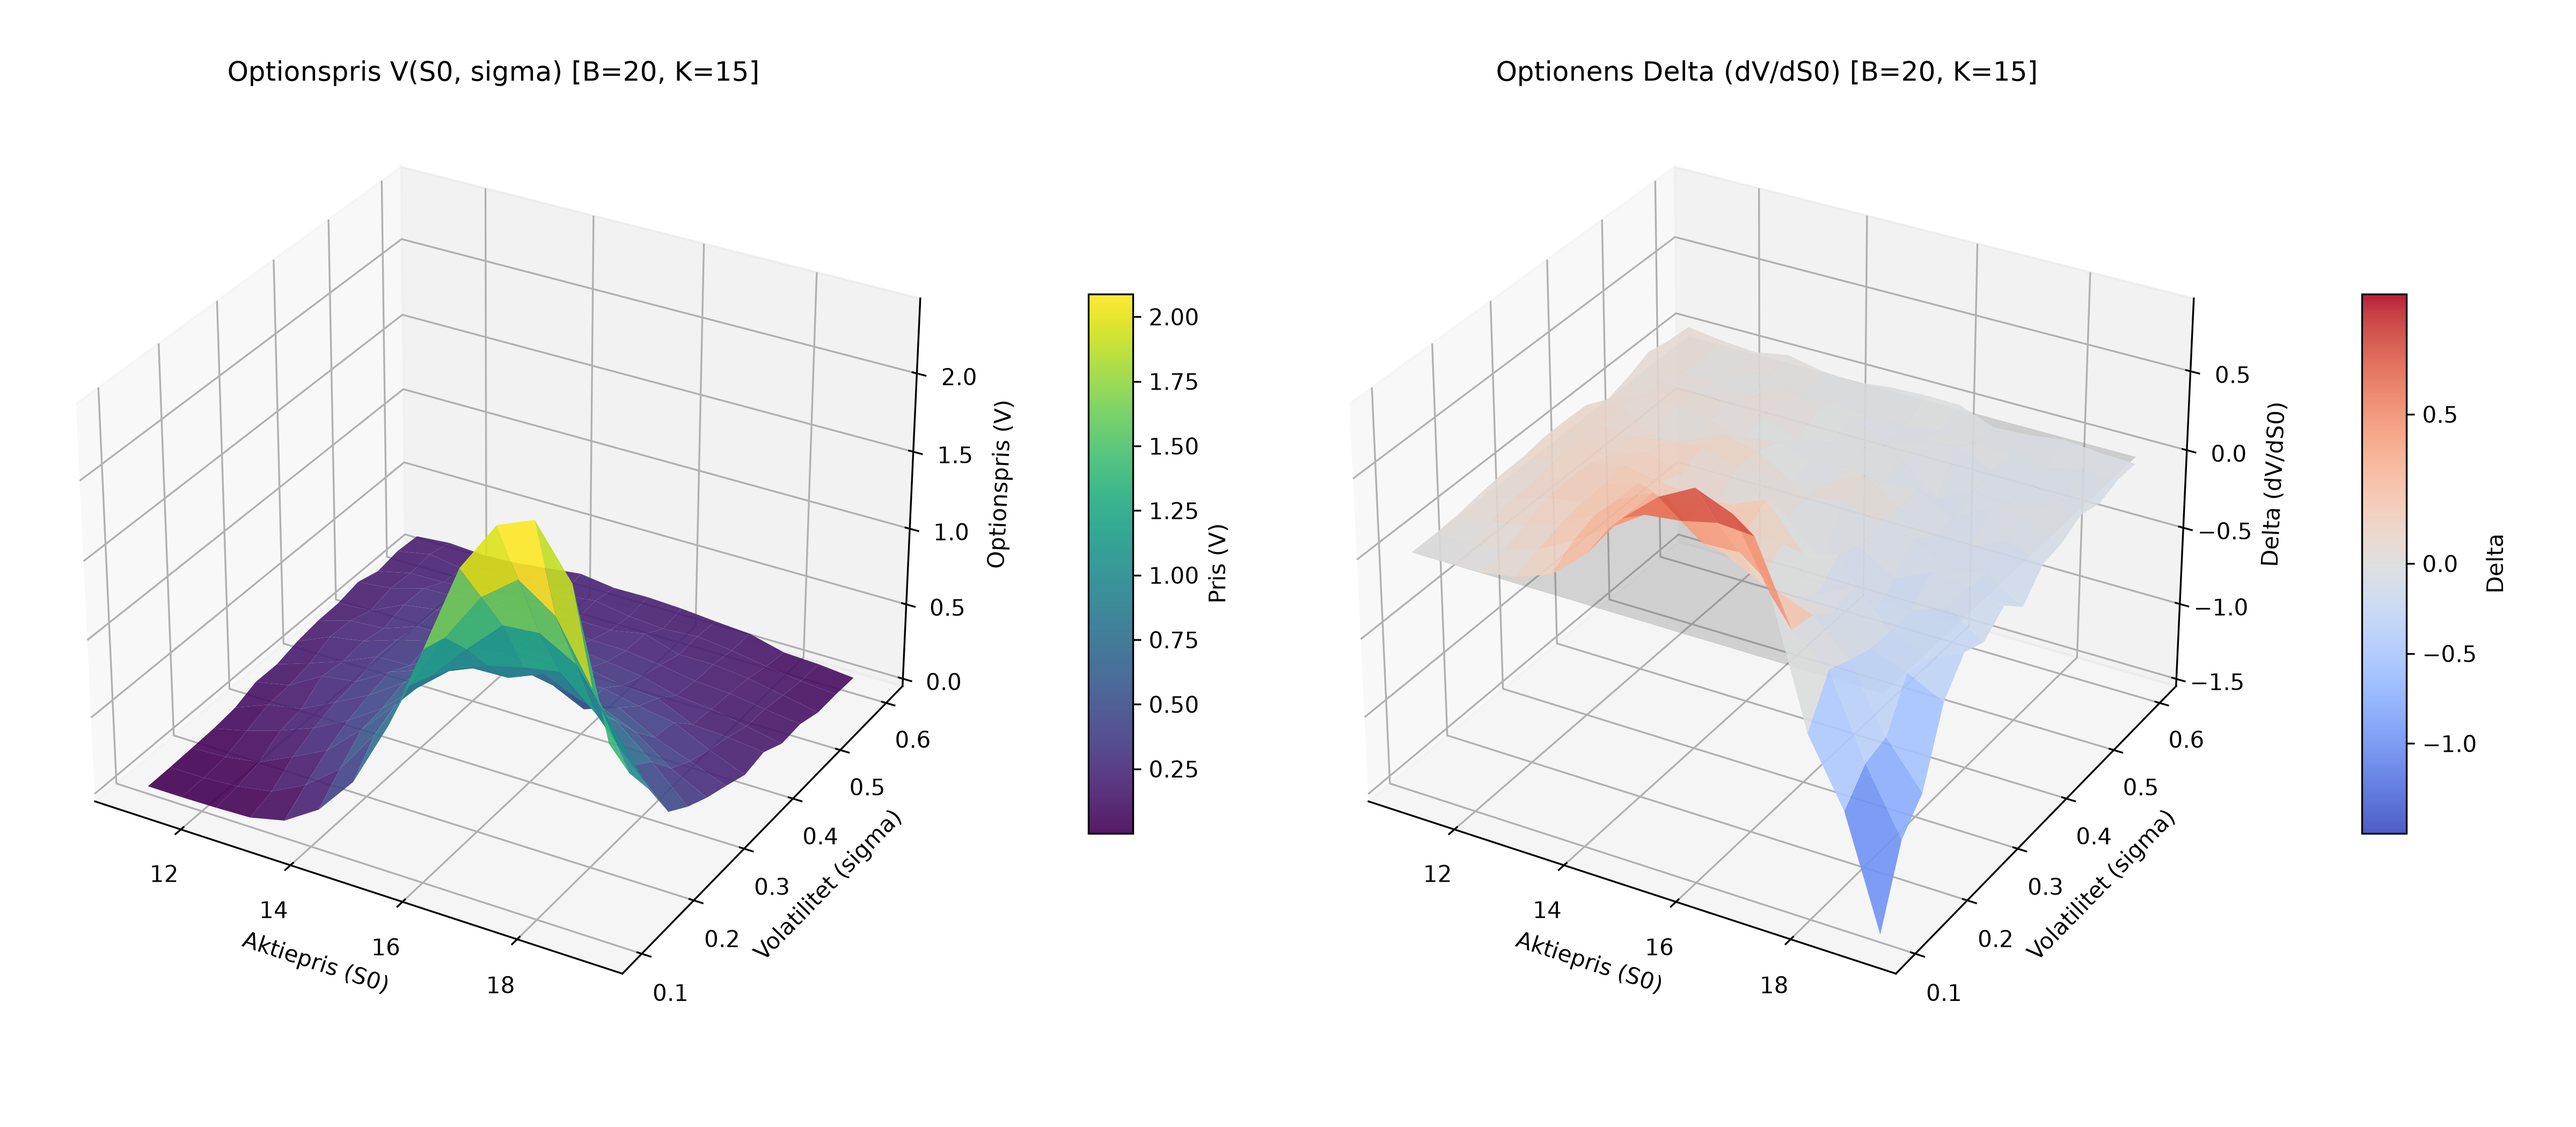
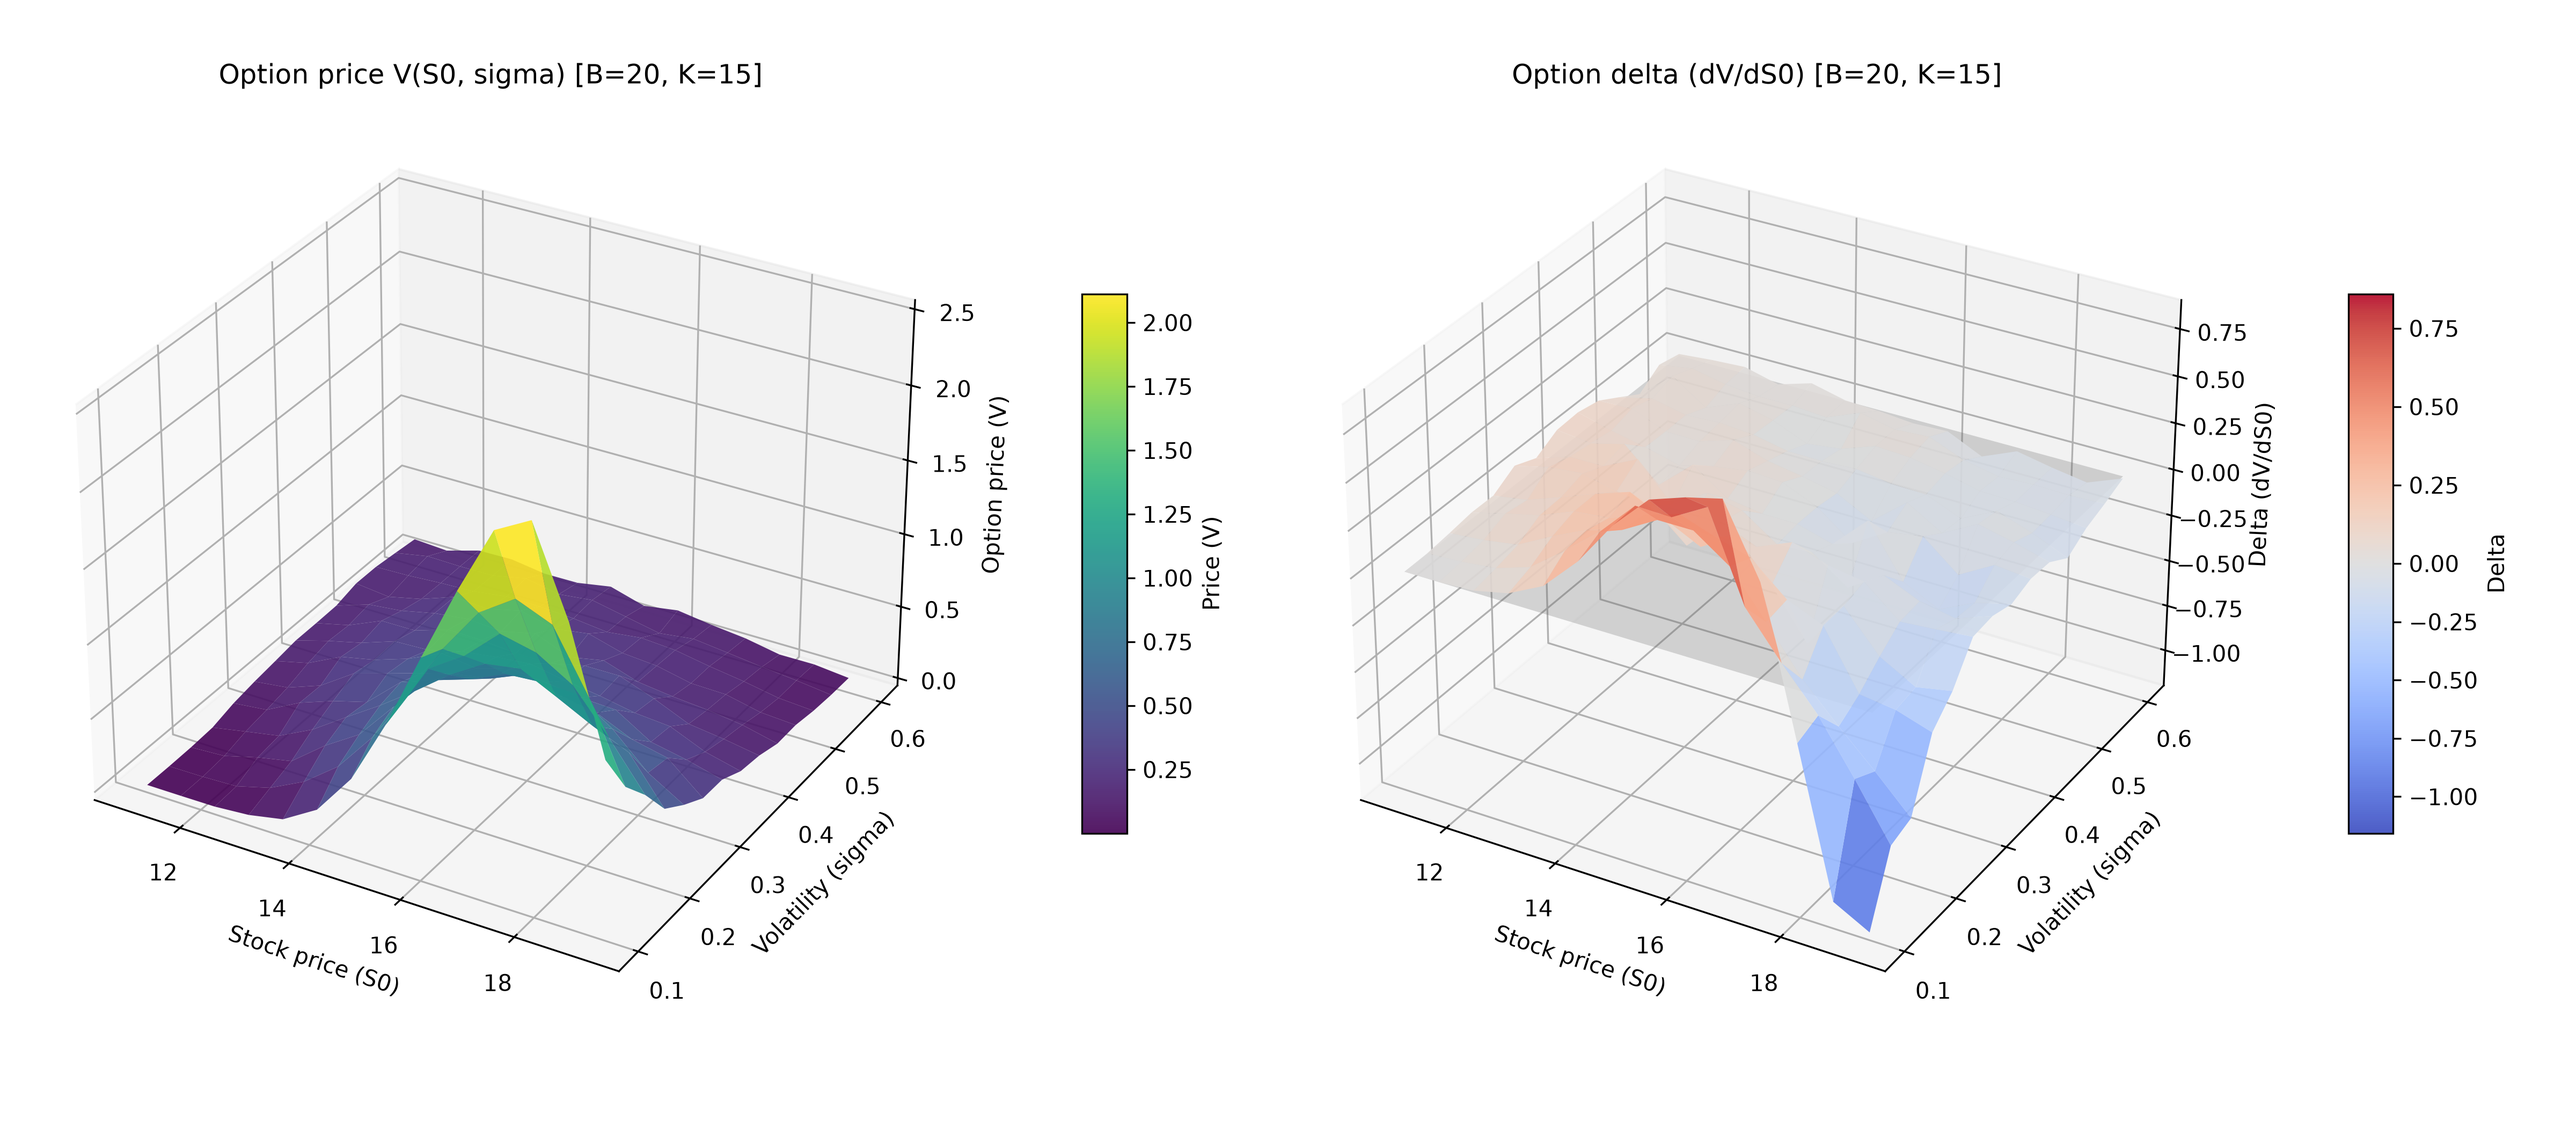
feat: add barrier option comparison, path simulations, and convergence analysis plots

diff --git a/Assigment4.py b/Assigment4.py
@@ -1,3 +1,4 @@
+import math
 import numpy as np
 import matplotlib.pyplot as plt
 from matplotlib.colors import TwoSlopeNorm
@@ -9,9 +10,9 @@ k = 15
 r = 0.05
 T = 0.5
 B = 20
-N = 1000
+N = 50000
 M = 1000
-sigma = 0.1
+sigma = 0.3
 gamma = 1
 ds = 0.1
 
@@ -25,7 +26,7 @@ def barrier_option_price(s0, k, r, T, B, sigma, gamma, N, M):
     sqrt_dt = np.sqrt(dt)
 
     S = np.full(N, s0)
-    knocked_out = np.zeros(N, dtype=bool)
+    knocked_out = S >= B
 
     for _ in range(M):
         dW = np.random.normal(0, sqrt_dt, N)
@@ -42,8 +43,8 @@ def calculate_delta(s0, k, r, T, B, sigma, gamma, N, M, ds):
 
     S_up = np.full(N, s0 + ds)
     S_down = np.full(N, s0 - ds)
-    knocked_up = np.zeros(N, dtype=bool)
-    knocked_down = np.zeros(N, dtype=bool)
+    knocked_up = S_up >= B
+    knocked_down = S_down >= B
 
     for _ in range(M):
         dW = np.random.normal(0, sqrt_dt, N)
@@ -63,17 +64,61 @@ def calculate_delta(s0, k, r, T, B, sigma, gamma, N, M, ds):
     return (v_up - v_down) / (2 * ds)
 
 
+def norm_cdf(x):
+    return 0.5 * (1.0 + math.erf(x / math.sqrt(2.0)))
+
+
+def bs_call(s0, k, r, T, sigma):
+    d1 = (math.log(s0 / k) + (r + 0.5 * sigma ** 2) * T) / (sigma * math.sqrt(T))
+    d2 = d1 - sigma * math.sqrt(T)
+    return s0 * norm_cdf(d1) - k * math.exp(-r * T) * norm_cdf(d2), norm_cdf(d1)
+
+
+def simulate_paths(s0, r, T, sigma, gamma, n_paths, M):
+    dt = T / M
+    paths = np.zeros((n_paths, M + 1))
+    paths[:, 0] = s0
+    for m in range(M):
+        dW = np.random.normal(0, np.sqrt(dt), n_paths)
+        S = paths[:, m]
+        paths[:, m + 1] = np.maximum(0.0, S + r * S * dt + sigma * (S ** gamma) * dW)
+    return paths
+
+
 v_base = barrier_option_price(s0, k, r, T, B, sigma, gamma, N, M)
-print(f"Baspris (sigma={sigma}, B={B}): {v_base:.4f}")
+delta_base = calculate_delta(s0, k, r, T, B, sigma, gamma, N, M, ds)
+v_vanilla, delta_vanilla = bs_call(s0, k, r, T, sigma)
+print(f"Barrier (sigma={sigma}, B={B}): pris {v_base:.4f}, delta {delta_base:.4f}")
+print(f"Vanilla (Black-Scholes):        pris {v_vanilla:.4f}, delta {delta_vanilla:.4f}")
 
-delta_base = calculate_delta(s0, k, r, T, B, sigma, gamma, 5000, M, ds)
-print(f"Optionens delta (s0={s0}): {delta_base:.4f}")
 
-v_sigma = barrier_option_price(s0, k, r, T, B, 0.2, gamma, N, M)
-print(f"Andrad parameter (sigma=0.2): {v_sigma:.4f}")
+# Barrier vs vanilla: pris mot S0 och mot sigma
+s0_line = np.linspace(10, 20, 21)
+v_s0_bar = [barrier_option_price(s, k, r, T, B, sigma, gamma, 20000, 500) for s in s0_line]
+v_s0_van = [bs_call(s, k, r, T, sigma)[0] for s in s0_line]
 
-v_barrier = barrier_option_price(s0, k, r, T, 25, sigma, gamma, N, M)
-print(f"Andrad parameter (B=25): {v_barrier:.4f}")
+sigma_line = np.linspace(0.05, 0.6, 12)
+v_sig_bar = [barrier_option_price(s0, k, r, T, B, sig, gamma, 20000, 500) for sig in sigma_line]
+v_sig_van = [bs_call(s0, k, r, T, sig)[0] for sig in sigma_line]
+for sig, vb, vv in zip(sigma_line, v_sig_bar, v_sig_van):
+    print(f"sigma={sig:.2f}: barrier {vb:.4f}, vanilla {vv:.4f}")
+
+fig, (ax1, ax2) = plt.subplots(1, 2, figsize=(13, 5))
+ax1.plot(s0_line, v_s0_van, '--', color='gray', lw=2, label='Vanilla call')
+ax1.plot(s0_line, v_s0_bar, 'o-', color='tab:blue', lw=2, label='Up-and-out call')
+ax1.axvline(B, color='black', lw=1, ls=':')
+ax1.set_xlabel('Stock price S0')
+ax1.set_ylabel('Option price')
+ax1.set_title(f'Price vs stock price (sigma = {sigma}, B = {B})')
+ax1.legend()
+ax2.plot(sigma_line, v_sig_van, '--', color='gray', lw=2, label='Vanilla call')
+ax2.plot(sigma_line, v_sig_bar, 'o-', color='tab:blue', lw=2, label='Up-and-out call')
+ax2.set_xlabel('Volatility sigma')
+ax2.set_ylabel('Option price')
+ax2.set_title(f'Price vs volatility (S0 = {s0}, B = {B})')
+ax2.legend()
+plt.tight_layout()
+plt.savefig('barrier_vs_vanilla.png', dpi=200)
 
 
 s0_vals = np.linspace(11, 19.2, 14)
@@ -94,12 +139,12 @@ fig = plt.figure(figsize=(16, 7))
 
 ax1 = fig.add_subplot(121, projection='3d')
 surf1 = ax1.plot_surface(S0_grid, Sigma_grid, V_grid, cmap='viridis', edgecolor='none', alpha=0.9)
-ax1.set_xlabel('Aktiepris (S0)')
-ax1.set_ylabel('Volatilitet (sigma)')
-ax1.set_zlabel('Optionspris (V)')
-ax1.set_title(f'Optionspris V(S0, sigma) [B={B}, K={k}]')
+ax1.set_xlabel('Stock price (S0)')
+ax1.set_ylabel('Volatility (sigma)')
+ax1.set_zlabel('Option price (V)')
+ax1.set_title(f'Option price V(S0, sigma) [B={B}, K={k}]')
 cbar1 = fig.colorbar(surf1, ax=ax1, shrink=0.5, aspect=12, pad=0.1)
-cbar1.set_label('Pris (V)')
+cbar1.set_label('Price (V)')
 
 ax2 = fig.add_subplot(122, projection='3d')
 norm = TwoSlopeNorm(vmin=min(-0.1, D_grid.min()), vcenter=0, vmax=max(0.1, D_grid.max()))
@@ -108,13 +153,70 @@ surf2 = ax2.plot_surface(S0_grid, Sigma_grid, D_grid, cmap='coolwarm', norm=norm
 xx, yy = np.meshgrid(np.linspace(11, 19.2, 2), np.linspace(0.1, 0.6, 2))
 ax2.plot_surface(xx, yy, np.zeros_like(xx), color='gray', alpha=0.25)
 
-ax2.set_xlabel('Aktiepris (S0)')
-ax2.set_ylabel('Volatilitet (sigma)')
+ax2.set_xlabel('Stock price (S0)')
+ax2.set_ylabel('Volatility (sigma)')
 ax2.set_zlabel('Delta (dV/dS0)')
-ax2.set_title(f'Optionens Delta (dV/dS0) [B={B}, K={k}]')
+ax2.set_title(f'Option delta (dV/dS0) [B={B}, K={k}]')
 cbar2 = fig.colorbar(surf2, ax=ax2, shrink=0.5, aspect=12, pad=0.1)
 cbar2.set_label('Delta')
 
 plt.tight_layout()
 plt.savefig('barrier_price_and_delta.png', dpi=300)
+plt.show()
+
+
+# Sanity checks: B mycket stor ger vanilla, s0 = B ger 0
+print(f"Sanity check B=1000: {barrier_option_price(s0, k, r, T, 1000, sigma, gamma, N, M):.4f} (vanilla {v_vanilla:.4f})")
+print(f"Sanity check s0=B=20: {barrier_option_price(20, k, r, T, B, sigma, gamma, N, M):.4f}")
+
+
+# Simulerade banor (eget seed sa att figuren visar bade utslagna och overlevande banor)
+np.random.seed(13)
+paths =simulate_paths(s0, r, T, 0.3, gamma, 8, M)
+t_grid = np.linspace(0, T, M + 1)
+fig, ax = plt.subplots(figsize=(10, 5.5))
+for p in paths:
+    hit = np.argmax(p >= B) if np.any(p >= B) else None
+    if hit is None:
+        ax.plot(t_grid, p, color='tab:green', lw=1.5)
+    else:
+        ax.plot(t_grid[:hit + 1], p[:hit + 1], color='tab:red', lw=1.5)
+        ax.plot(t_grid[hit:], p[hit:], color='tab:red', lw=1.0, alpha=0.25, ls='--')
+        ax.plot(t_grid[hit], p[hit], 'x', color='tab:red', ms=10, mew=2)
+ax.axhline(B, color='black', lw=2, label=f'Barrier B = {B}')
+ax.axhline(k, color='gray', lw=1.5, ls=':', label=f'Strike K = {k}')
+ax.plot([], [], color='tab:green', label='Survives (pays call payoff)')
+ax.plot([], [], color='tab:red', label='Knocked out (pays 0)')
+ax.set_xlabel('Time t (years)')
+ax.set_ylabel('Stock price S(t)')
+ax.set_title('Simulated paths, up-and-out call (sigma = 0.3)')
+ax.legend(loc='upper left')
+plt.tight_layout()
+plt.savefig('barrier_sample_paths.png', dpi=200)
+
+
+# Konvergens i antal banor N (sigma = 0.3, dar barriaren spelar roll)
+sigma_conv = 0.3
+v_bs_conv, delta_bs_conv = bs_call(s0, k, r, T, sigma_conv)
+N_vals = [100, 200, 500, 1000, 2000, 5000, 10000, 20000, 50000, 100000]
+v_conv = [barrier_option_price(s0, k, r, T, B, sigma_conv, gamma, n, M) for n in N_vals]
+d_conv = [calculate_delta(s0, k, r, T, B, sigma_conv, gamma, n, M, ds) for n in N_vals]
+for n, v, d in zip(N_vals, v_conv, d_conv):
+    print(f"N={n:6d}: pris {v:.4f}, delta {d:.4f}")
+
+fig, (ax1, ax2) = plt.subplots(1, 2, figsize=(13, 5))
+ax1.semilogx(N_vals, v_conv, 'o-', color='tab:blue', label='Barrier option (MC)')
+ax1.axhline(v_bs_conv, color='gray', ls='--', label=f'Vanilla call (BS) = {v_bs_conv:.4f}')
+ax1.set_xlabel('Number of paths N')
+ax1.set_ylabel('Option price')
+ax1.set_title(f'Price vs number of paths (sigma = {sigma_conv})')
+ax1.legend()
+ax2.semilogx(N_vals, d_conv, 'o-', color='tab:orange', label='Barrier option delta (MC)')
+ax2.axhline(delta_bs_conv, color='gray', ls='--', label=f'Vanilla call delta (BS) = {delta_bs_conv:.4f}')
+ax2.set_xlabel('Number of paths N')
+ax2.set_ylabel('Delta')
+ax2.set_title(f'Delta vs number of paths (sigma = {sigma_conv})')
+ax2.legend()
+plt.tight_layout()
+plt.savefig('barrier_convergence.png', dpi=200)
 plt.show()
